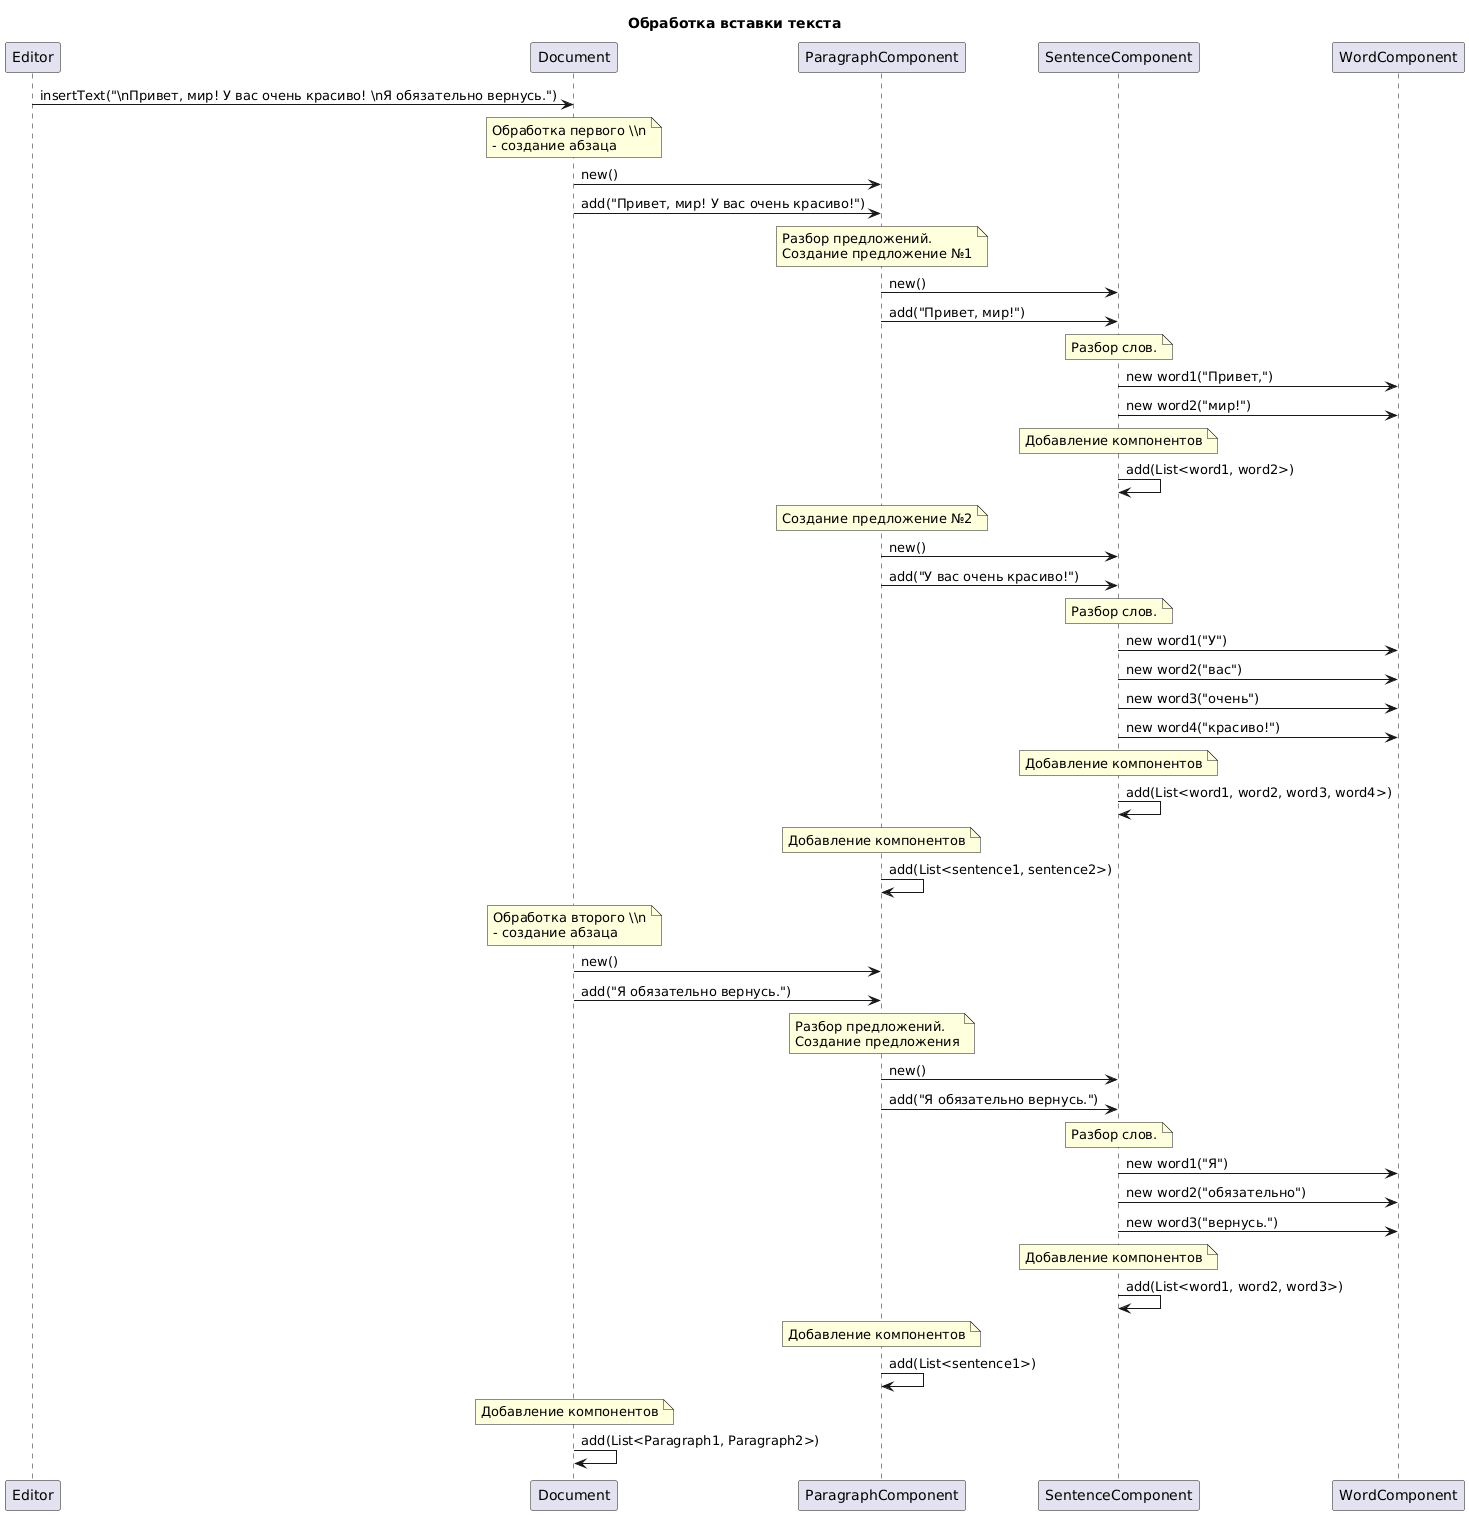
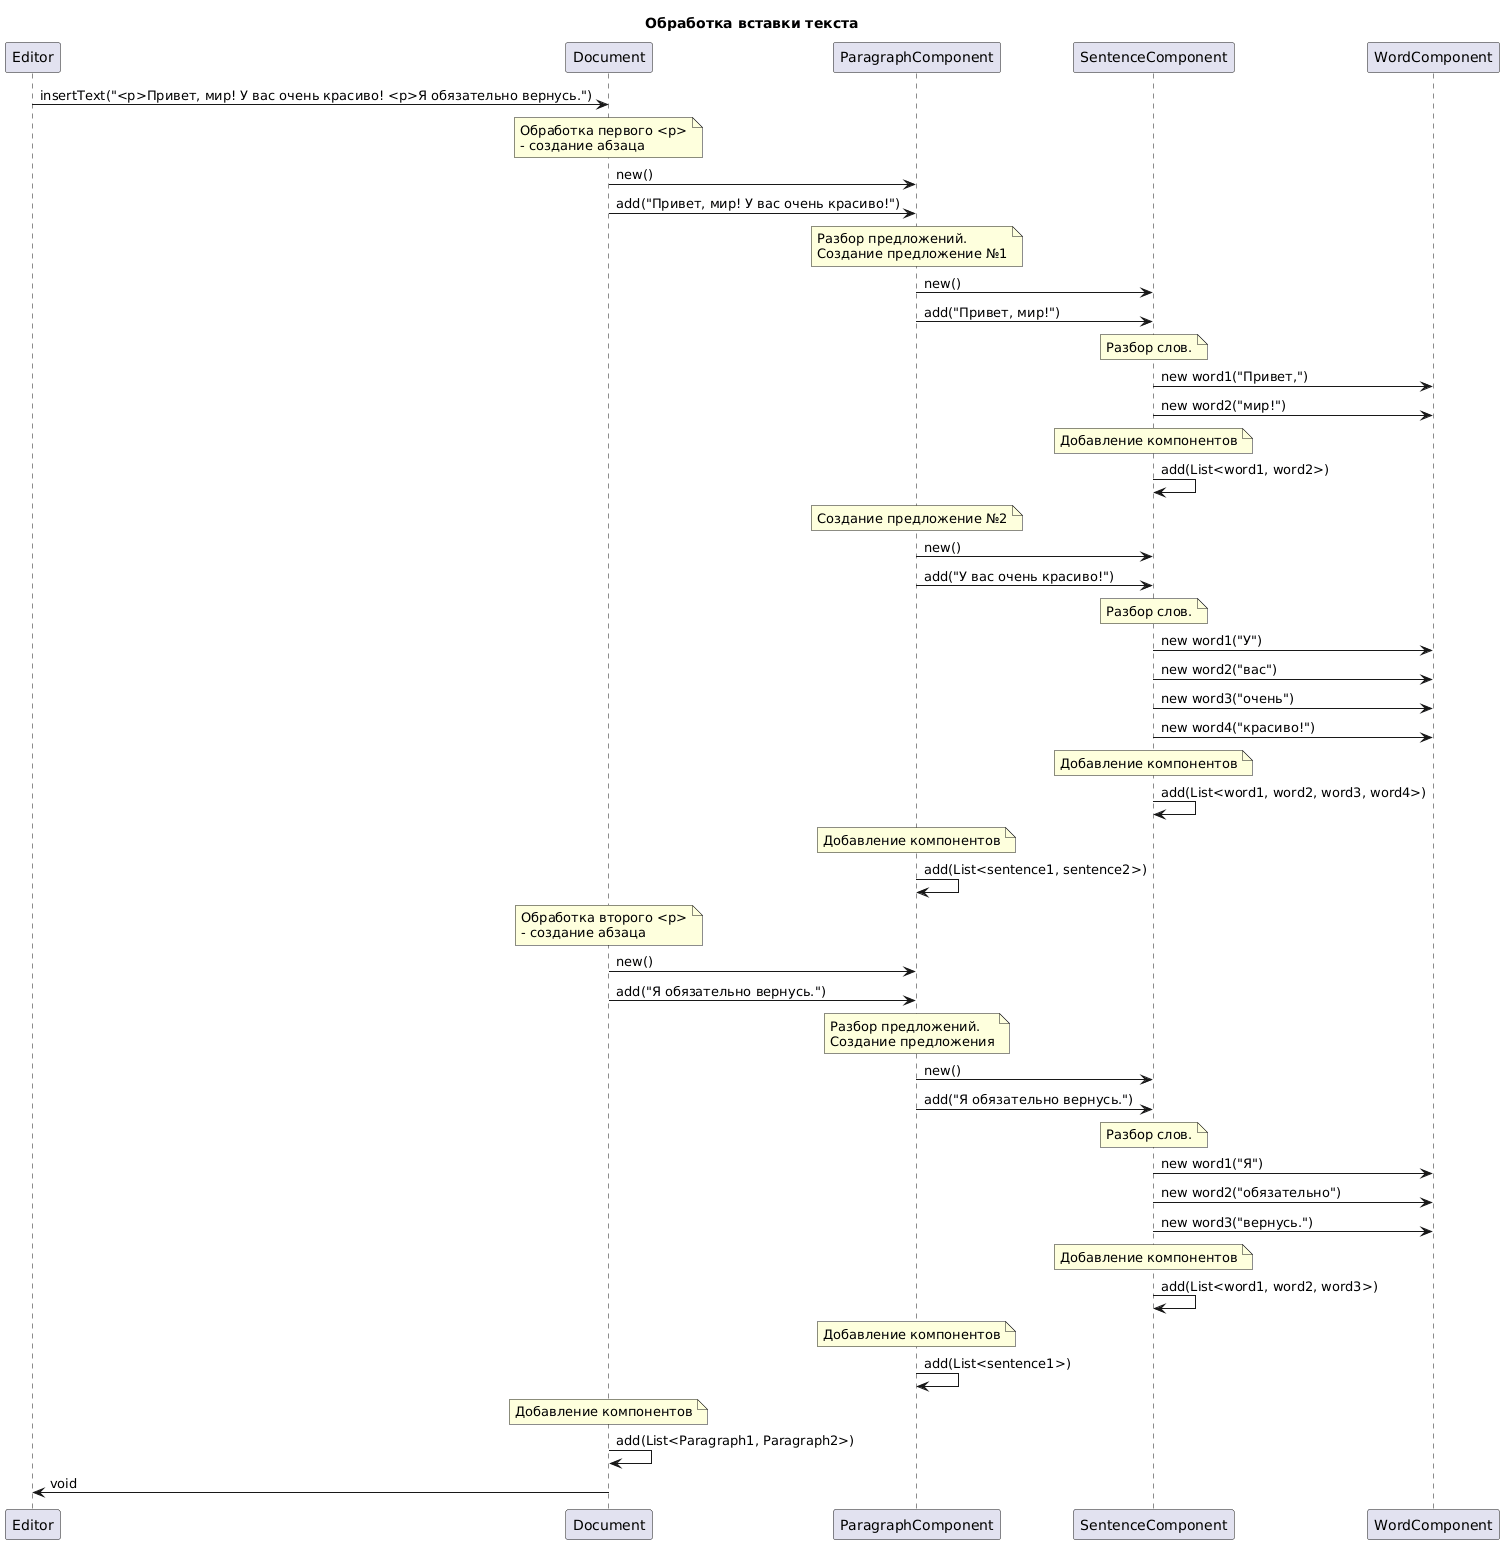
Update редактирование текста

diff --git a/Документация/Преценденты/Редактирование текста/PlantUML.md b/Документация/Преценденты/Редактирование текста/PlantUML.md
@@ -10,10 +10,10 @@ participant ParagraphComponent
 participant SentenceComponent
 participant WordComponent
 
-Editor -> Document: insertText("\\nПривет, мир! У вас очень красиво! \\nЯ обязательно вернусь.")
+Editor -> Document: insertText("<p>Привет, мир! У вас очень красиво! <p>Я обязательно вернусь.")
 
 note over Document
-  Обработка первого \\n
+  Обработка первого <p>
   - создание абзаца
 end note
 Document -> ParagraphComponent: new()
@@ -62,7 +62,7 @@ end note
 ParagraphComponent -> ParagraphComponent: add(List<sentence1, sentence2>)
 
 note over Document
-  Обработка второго \\n
+  Обработка второго <p>
   - создание абзаца
 end note
 Document -> ParagraphComponent: new()
@@ -96,5 +96,6 @@ note over Document
   Добавление компонентов
 end note
 Document -> Document: add(List<Paragraph1, Paragraph2>)
+Document -> Editor: void
 @enduml
 ```
